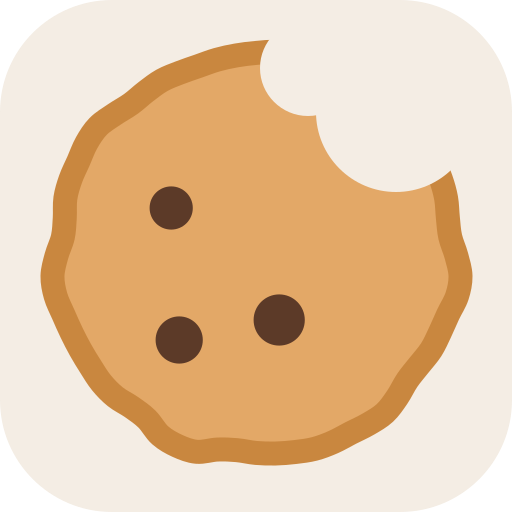
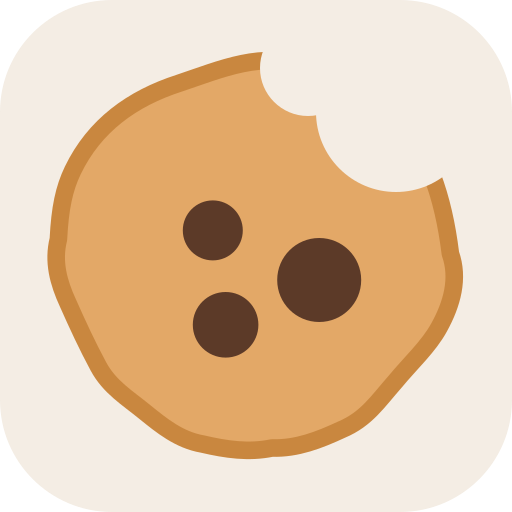
fix(cukii): cut the store tile from the activity cookie
2.0.126 shipped a Marketplace tile rendered from media/cukii-mark.svg, the
older heavily outlined cookie, so the listing and the activity bar showed two
different biscuits. media/cukii-store.svg reuses the activity silhouette, bite
cut-outs and chip positions verbatim and only adds the brand palette, and the
brand-icon guard now fails if the two drift apart or if the generator is
pointed back at the mark.

diff --git a/extensions/vscode/src/cukiiBrandIcons.vitest.ts b/extensions/vscode/src/cukiiBrandIcons.vitest.ts
@@ -57,6 +57,45 @@ describe("cukii brand icons", () => {
     expect(activitySvg).toContain('mask="url(#cutout-mask)"');
   });
 
+  it("cuts the Marketplace tile from the activity cookie, not the older mark", () => {
+    // 2.0.126 shipped a store tile rendered from media/cukii-mark.svg — the
+    // older, heavily outlined cookie — so the listing and the sidebar showed
+    // two different biscuits. The tile must reuse the activity geometry.
+    const activitySvg = readMediaIcon("media/cukii-activity.svg");
+    const storeSvg = readMediaIcon("media/cukii-store.svg");
+
+    const silhouette = (svg: string) => /\sd="(M56\.3[^"]+)"/.exec(svg)?.[1];
+    expect(silhouette(storeSvg)).toBeDefined();
+    expect(silhouette(storeSvg)).toBe(silhouette(activitySvg));
+
+    for (const bite of [
+      'cx="49.5" cy="14" r="10"',
+      'cx="38.5" cy="8.5" r="6"',
+    ]) {
+      expect(storeSvg).toContain(bite);
+      expect(activitySvg).toContain(bite);
+    }
+    for (const chip of [
+      'cx="26.6" cy="28.8" r="3.75"',
+      'cx="39.9" cy="35" r="5.25"',
+      'cx="28.2" cy="40.6" r="4.1"',
+    ]) {
+      expect(storeSvg).toContain(chip);
+    }
+
+    // The tile is the only place the palette lives; the activity icon stays
+    // monochrome because VS Code paints it through a CSS mask.
+    expect(storeSvg).toContain('fill="#E3A867"');
+    expect(activitySvg).toContain('fill="currentColor"');
+
+    const generator = readFileSync(
+      join(__dirname, "..", "scripts", "build-marketplace-icon.js"),
+      "utf8",
+    );
+    expect(generator).toContain('"cukii-store.svg"');
+    expect(generator).not.toContain('"cukii-mark.svg"');
+  });
+
   it("moves the color-mark chips by the same offset without changing their radii", () => {
     const markSvg = readMediaIcon("media/cukii-mark.svg");
 

diff --git a/extensions/vscode/scripts/build-marketplace-icon.js b/extensions/vscode/scripts/build-marketplace-icon.js
@@ -1,24 +1,26 @@
 // Renders media/icon.png (the Marketplace tile) from the current brand mark.
-// The store icon used to be a stale Continue-era bitmap; regenerating it from
-// media/cukii-mark.svg keeps the listing and the activity bar on one source.
+// The store icon used to be a stale Continue-era bitmap. It was then rebuilt
+// from media/cukii-mark.svg, which is the OLDER outlined cookie — the store
+// tile disagreed with the sidebar. media/cukii-store.svg carries the same
+// geometry the activity bar paints, so listing and sidebar stay one source.
 const fs = require("fs");
 const path = require("path");
 const sharp = require("sharp");
 
 const SIZE = Number(process.argv[2] || 512);
 const mediaDir = path.join(__dirname, "..", "media");
-const source = path.join(mediaDir, "cukii-mark.svg");
+const source = path.join(mediaDir, "cukii-store.svg");
 const target = path.join(mediaDir, "icon.png");
 
 async function main() {
   const svg = fs.readFileSync(source);
   const viewBox = /viewBox="0 0 (\d+) (\d+)"/.exec(svg.toString("utf8"));
   if (!viewBox) {
-    throw new Error("cukii-mark.svg must declare a 0 0 N N viewBox");
+    throw new Error("cukii-store.svg must declare a 0 0 N N viewBox");
   }
   const units = Number(viewBox[1]);
   if (units !== Number(viewBox[2])) {
-    throw new Error("cukii-mark.svg viewBox must be square");
+    throw new Error("cukii-store.svg viewBox must be square");
   }
   // librsvg rasterises at 72dpi unless told otherwise; density scales the
   // user units so the output lands on SIZE pixels without a resample blur.
